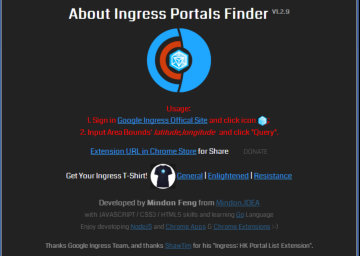
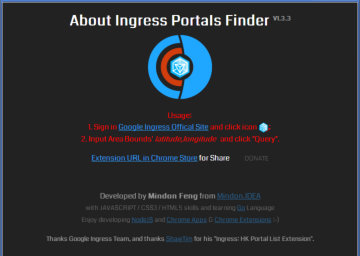
Site updated at 2013-01-29 15:20:16 UTC

Changed region(s): [[0.0, 0.0, 1.0, 1.0], [0.7028, 0.5938, 0.7333, 0.625]]

diff --git a/blog/2013/01/26/incredible-ingress-portals-finder-a-chrome-extension-for-the-game/index.html b/blog/2013/01/26/incredible-ingress-portals-finder-a-chrome-extension-for-the-game/index.html
@@ -143,9 +143,11 @@
 
 <p><strong>Main window</strong></p>
 
-<p><img src="/images/blog/ingress/about.jpg" alt="" /></p>
+<p><img src="/images/blog/ingress/main.jpg" alt="" /></p>
 
 <p>The last one is the map window for all portals inside the bounds.</p>
+
+<p><strong>Easy Usage</strong>: 1) Set Bounds; 2) Click Query; 3) Filter by Tag, Team or Level.</p>
 
 <p>Following describe is focusing on the features you need to know about this amazing helpful extension.</p>
 
@@ -231,6 +233,18 @@
 <p>And you could show the specific level on the map:</p>
 
 <p><img src="/images/blog/ingress/0-select.jpg" alt="" /></p>
+
+<h2><strong>J)</strong> Set Bounds more easily - Search place by name</h2>
+
+<p><img src="/images/blog/ingress/b-search.jpg" alt="" /></p>
+
+<h2><strong>K)</strong> Sort by Energy/Links/Mods</h2>
+
+<p><img src="/images/blog/ingress/a-sort.jpg" alt="" /></p>
+
+<h2><strong>L)</strong> Export selected level or all levels to KML </h2>
+
+<p><img src="/images/blog/ingress/c-export.jpg" alt="" /></p>
 
 <p>If problems or suggestions when using the extension, please leave the details or send me an email. Thanks.</p>
 

diff --git a/index.html b/index.html
@@ -129,9 +129,11 @@
 
 <p><strong>Main window</strong></p>
 
-<p><img src="/images/blog/ingress/about.jpg" alt="" /></p>
+<p><img src="/images/blog/ingress/main.jpg" alt="" /></p>
 
 <p>The last one is the map window for all portals inside the bounds.</p>
+
+<p><strong>Easy Usage</strong>: 1) Set Bounds; 2) Click Query; 3) Filter by Tag, Team or Level.</p>
 
 <p>Following describe is focusing on the features you need to know about this amazing helpful extension.</p>
 
